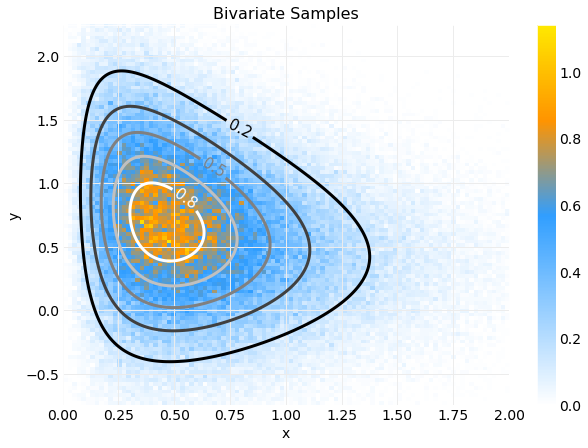
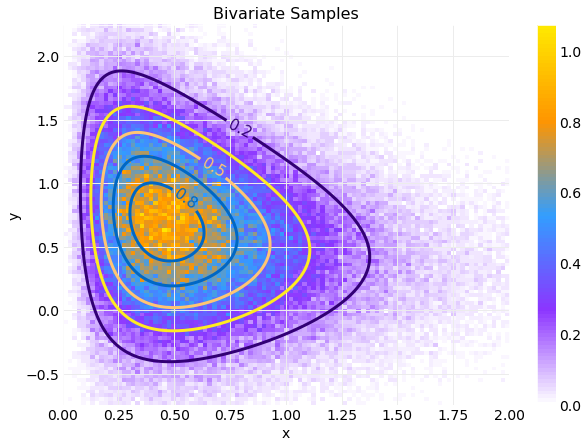
finished first pass on color maps

diff --git a/glyfish/config.py b/glyfish/config.py
@@ -15,12 +15,11 @@ def draw(dot, post, plot):
     pygraphviz.AGraph(dot).draw(path, format='png', prog='dot')
     return Image(pygraphviz.AGraph(dot).draw(format='png', prog='dot'))
 
+style_file = os.path.join(os.getcwd(), 'gly.fish.mplstyle')
+glyfish_style = pathlib.Path(style_file).as_uri()
+post_asset_path = os.path.join(os.getcwd(), 'assets', 'posts')
+
 color = matplotlib.colors.ColorConverter().to_rgb
-
-color("#329EFF")
-color("#FFE800")
-color("#FF9500")
-
 
 histogram_color_map_cdict = {'red':   ((0.0,  1.0, 1.0),
                                        (0.5,  0.19, 0.19),
@@ -39,14 +38,15 @@ histogram_color_map_cdict = {'red':   ((0.0,  1.0, 1.0),
                              }
 histogram_color_map = matplotlib.colors.LinearSegmentedColormap('HistogramMap', histogram_color_map_cdict)
 
-style_file = os.path.join(os.getcwd(), 'gly.fish.mplstyle')
-glyfish_style = pathlib.Path(style_file).as_uri()
-post_asset_path = os.path.join(os.getcwd(), 'assets', 'posts')
+alternate_color_map_colors = [color('white'), color("#8C35FF"),  color("#329EFF"), color("#FF9500"), color("#FFE800")]
+alternate_color_map =  matplotlib.colors.LinearSegmentedColormap.from_list('AlternateMap', alternate_color_map_colors, N=100 )
 
 contour_color_map = matplotlib.colors.ListedColormap(["#0067C4", "#FFE800", "#320075", "#FF9500",
                                                       "#329EFF", "#AC9C00", "#5600C9", "#FFC574",
                                                       "#003B6F", "#FFEB22", "#8C35FF", "#AC6500"])
-distribution_sample_cycler = cycler("color", ["#329EFF", "#320075"])
+alternate_contour_color_map = matplotlib.colors.ListedColormap(["#320075", "#FFEB22", "#FFC574", "#0067C4"])
+
+distribution_sample_cycler = cycler("color", ["#329EFF", "#FFEB22"])
 alternate_cycler = cycler("color", ["#0067C4", "#8C35FF", "#FF9500", "#FFE800", "#329EFF", "#FFC574", "#320075"])
 bar_plot_colors = ["#0067C4", "#FF9500", "#320075", "#FFE800", "#329EFF", "#FFC574", "#8C35FF"]
 bar_plot_cycler = cycler("color", bar_plot_colors)

diff --git a/hydrogen_notebooks/mcmc/gibbs_sampling/am207_bivariate_sampler.py b/hydrogen_notebooks/mcmc/gibbs_sampling/am207_bivariate_sampler.py
@@ -97,8 +97,8 @@ axis.set_xlabel("x")
 axis.set_ylabel("y")
 axis.set_xlim(xrange)
 axis.set_title("Bivariate Samples")
-hist, _, _, image = axis.hist2d(samples[:,0], samples[:,1], normed=True, bins=bins, cmap=config.histogram_color_map)
-contour = axis.contour(x, y, pdf, cmap=pyplot.cm.gray)
+hist, _, _, image = axis.hist2d(samples[:,0], samples[:,1], normed=True, bins=bins, cmap=config.alternate_color_map)
+contour = axis.contour(x, y, pdf, cmap=config.alternate_contour_color_map)
 axis.clabel(contour, contour.levels[::2], fmt="%.1f", inline=True, fontsize=15)
 figure.colorbar(image)
 config.save_post_asset(figure, "gibbs_sampling", "bivariate_pdf_sample_comparison")
